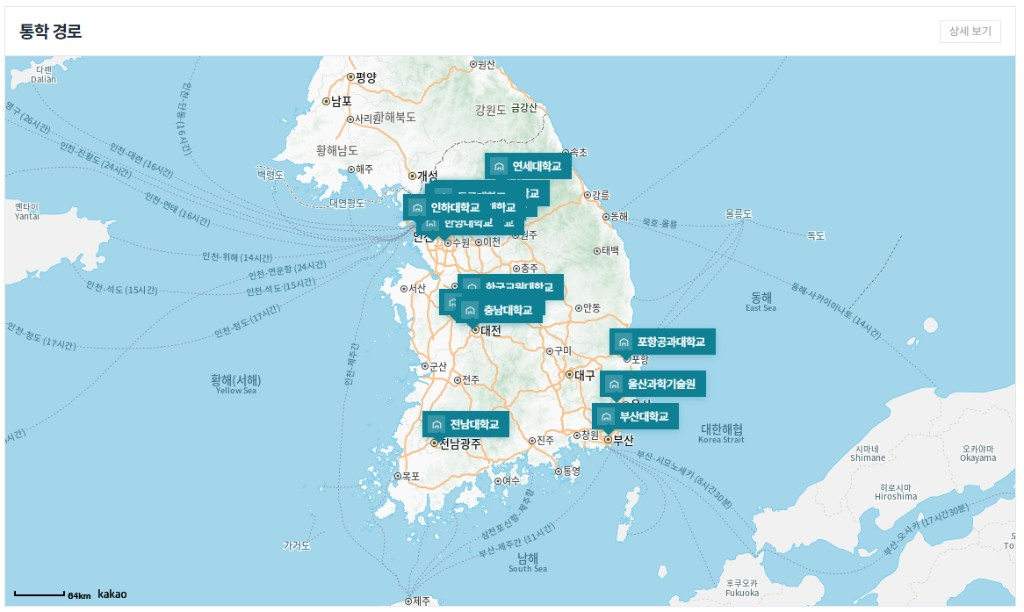
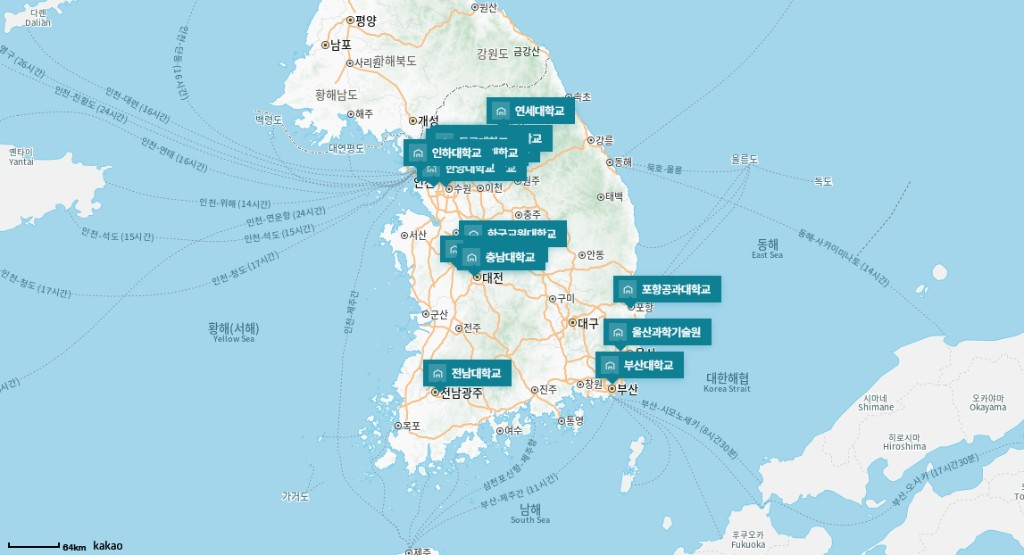
Polish Kakao offline preview samples and card typography.
Swap in the latest map/roadview sample images and tighten the translucent guide card styles.

diff --git a/css/styles.css b/css/styles.css
@@ -6466,7 +6466,7 @@ table.admit-detail-table td {
 }
 
 .campus-kakao-preview--road .campus-kakao-preview-scene {
-  background-image: url("../img/campus-roadview-preview.jpg");
+  background-image: url("../img/campus-roadview-preview.png");
 }
 
 .campus-kakao-preview-scene::after {
@@ -6479,15 +6479,20 @@ table.admit-detail-table td {
 .campus-kakao-preview-card {
   position: relative;
   z-index: 2;
+  display: flex;
+  flex-direction: column;
+  justify-content: center;
+  gap: 8px;
   width: min(520px, calc(100% - 32px));
   margin: 0;
-  padding: 18px 20px;
-  border: 1px solid rgba(255, 255, 255, 0.55);
-  background: rgba(255, 255, 255, 0.62);
-  box-shadow: 0 10px 28px rgba(15, 23, 42, 0.1);
-  backdrop-filter: blur(6px);
-  -webkit-backdrop-filter: blur(6px);
+  padding: 20px 20px;
+  border: 1px solid rgba(255, 255, 255, 0.4);
+  background: rgba(255, 255, 255, 0.42);
+  box-shadow: 0 10px 28px rgba(15, 23, 42, 0.08);
+  backdrop-filter: blur(5px);
+  -webkit-backdrop-filter: blur(5px);
   text-align: left;
+  box-sizing: border-box;
 }
 
 .campus-kakao-preview-kicker,
@@ -6497,27 +6502,26 @@ table.admit-detail-table td {
 }
 
 .campus-kakao-preview-kicker {
-  color: #0f7f93;
+  color: #1a4796;
   font-size: 12px;
   font-weight: 700;
   letter-spacing: 0.04em;
+  line-height: 1.3;
 }
 
 .campus-kakao-preview-title {
-  margin-top: 6px;
   color: #111827;
-  font-size: 18px;
-  font-weight: 700;
+  font-size: 20px;
+  font-weight: 600;
   letter-spacing: -0.02em;
-  line-height: 1.25;
+  line-height: 1.3;
 }
 
 .campus-kakao-preview-desc {
-  margin-top: 8px;
   color: #6b7280;
-  font-size: 13px;
+  font-size: 14px;
   font-weight: 500;
-  line-height: 1.45;
+  line-height: 1.3;
   word-break: keep-all;
   white-space: nowrap;
 }

diff --git a/index.html b/index.html
@@ -16,7 +16,7 @@
   </script>
   <link rel="stylesheet" href="https://cdn.jsdelivr.net/gh/orioncactus/pretendard@v1.3.9/dist/web/static/pretendard.min.css">
   <link rel="stylesheet" href="https://fonts.googleapis.com/css2?family=Noto+Sans+KR:wght@300;400;500;600;700&display=swap">
-  <link rel="stylesheet" href="css/styles.css?v=20260312p">
+  <link rel="stylesheet" href="css/styles.css?v=20260312u">
 </head>
 <body>
   <div class="app" id="app">
@@ -23385,7 +23385,7 @@
   <script src="js/admit-uni-data.js?v=6"></script>
   <script src="js/admit-susi-yearly.js?v=5"></script>
   <script src="js/kakao-config.js?v=3"></script>
-  <script src="js/guide.js?v=364"></script>
+  <script src="js/guide.js?v=365"></script>
   <script src="js/home.js?v=6"></script>
   <script src="js/main.js?v=77"></script>
 </body>

diff --git a/js/guide.js b/js/guide.js
@@ -4429,7 +4429,7 @@ const Guide = (() => {
 
   function campusKakaoPreviewHtml(kind = "map") {
     const isMap = kind === "map";
-    const title = isMap ? "캠퍼스 지도 미리보기" : "캠퍼스 로드뷰 미리보기";
+    const title = isMap ? "캠퍼스 지도 샘플" : "캠퍼스 로드뷰 샘플";
     const desc = isMap
       ? "대학 위치와 통학 경로는 카카오 지도가 연결된 환경에서 확인할 수 있습니다."
       : "캠퍼스 거리 풍경은 카카오 로드뷰가 연결된 환경에서 확인할 수 있습니다.";
